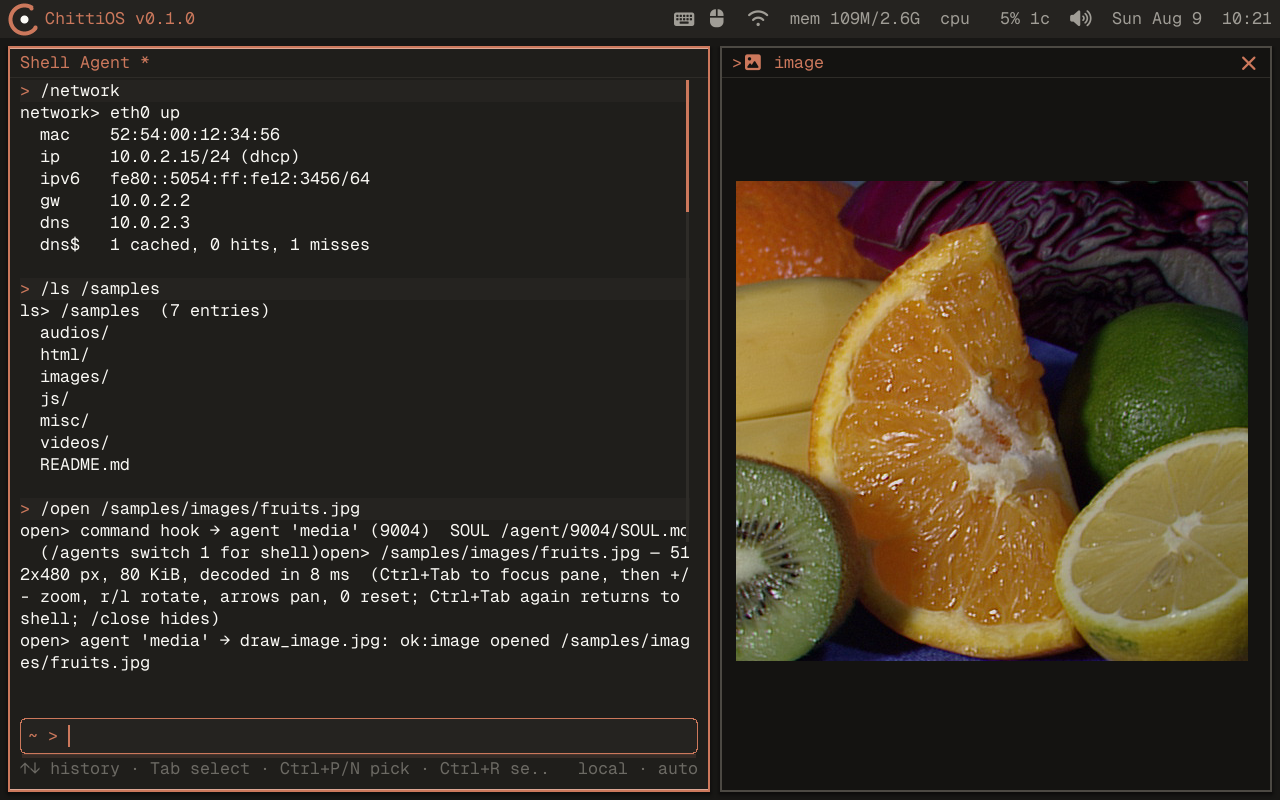
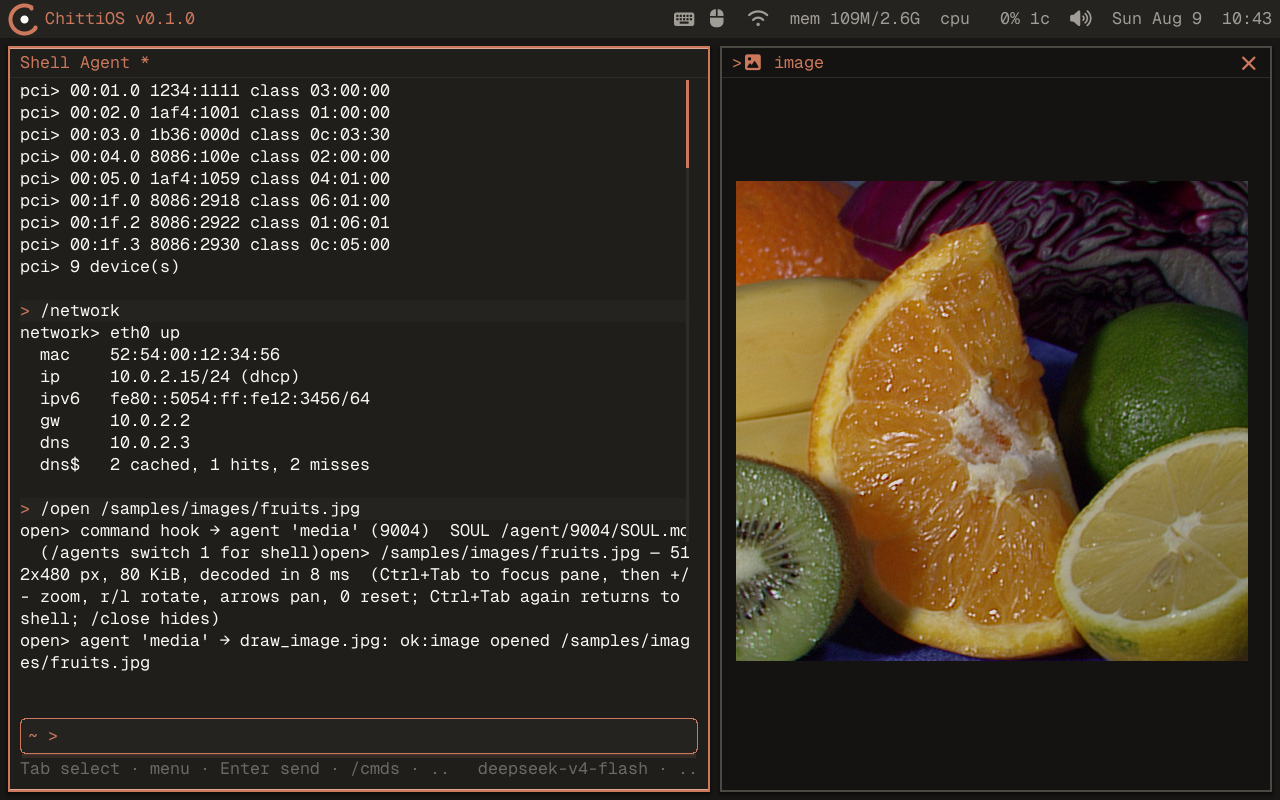
capture: demo the agent loop against a hosted model
Re-shoots the demo now that the x86 fw_cfg seed works, so the frames show what
ChittiOS actually is rather than a tour of `/`-commands: `/model` reporting the
hosted backend, a plain-English question, the model calling a tool it had to be
granted, the tool's real output, a summary — and `/audit` afterwards showing
every primitive that ran.

Reordered for one specific reason, recorded in the script: the command browser
leaves a popup open and the **next `/` is consumed closing it**, so `/model`
went in as the chat message "model" and the model politely asked what was meant.
`/help` is last now, and anything following a popup needs a flush.

Captured against `CHITTI_REMOTE_URL=https://opencode.ai/zen/go` with
`deepseek-v4-flash`. The endpoint is not baked in anywhere — it is two
environment variables at capture time, and without them the script warns and
still shoots, it just has no model to talk to.

diff --git a/tools/capture/capture.py b/tools/capture/capture.py
@@ -93,6 +93,13 @@ class Guest:
         env["CHITTI_QEMU_EXTRA"] = f"-qmp unix:{qmp_path},server,nowait"
         env["CHITTI_DISPLAY"] = "none"
         env.setdefault("CHITTI_SAMPLE_FILES", "1")
+        # A hosted model, seeded through fw_cfg by xtask and activated by the
+        # shell at boot. The demo is about the agent loop, so without this the
+        # interesting frames say "no model" — hence the warning rather than a
+        # silent, duller capture.
+        if not env.get("CHITTI_REMOTE_URL"):
+            print("capture: no CHITTI_REMOTE_URL — the chat frames will have no model",
+                  file=sys.stderr)
         cmd = ["cargo", "xtask", "run", "-arch", arch, "--release", "--no-model"]
         print("capture: " + " ".join(cmd), flush=True)
         self.proc = subprocess.Popen(
@@ -146,22 +153,37 @@ class Guest:
 # The session, as (label, keystrokes, settle seconds). `None` keystrokes means
 # "just wait and shoot" — used for the boot splash.
 #
-# Chosen to show what the OS actually is rather than what looks busiest: the
-# shell it boots to, that it explains itself, that it drives real hardware, and
-# that the agent's authority is gated and audited.
+# Chosen to show what ChittiOS *is* rather than what looks busiest. The middle
+# of the script is the whole point: a plain-English question reaches the model,
+# the model asks for a tool, the capability gate decides, and the audit log
+# shows it happened. A tour of `/`-commands would look like any terminal.
+#
+# Set CHITTI_REMOTE_URL / CHITTI_REMOTE_MODEL to give the guest a hosted model;
+# xtask seeds it through fw_cfg and the shell activates it at boot. Without one
+# the chat frames still capture, they just show the "no model" reply.
 SCRIPT: list[tuple[str, str | None, float]] = [
-    ("01-boot", None, 2.0),
-    ("02-help", "/help\n", 3.0),
-    ("03-about", "\x1b/about\n", 2.5),
-    ("04-disks", "/disks\n", 2.5),
-    ("05-lspci", "/lspci\n", 2.5),
-    ("06-network", "/network\n", 2.5),
-    ("07-samples", "/ls /samples\n", 2.5),
-    ("08-image", "/open /samples/images/fruits.jpg\n", 5.0),
-    ("09-close", "/close\n", 1.5),
-    ("10-audit", "/audit\n", 2.5),
-    ("11-agents", "/agents\n", 3.0),
-    ("12-top", "/top\n", 3.0),
+    ("01-boot", None, 2.5),
+    # The hosted backend, active from the fw_cfg seed.
+    ("02-model", "/model\n", 3.0),
+    # The agentic loop, end to end: a question in English, answered by the model
+    # calling a tool it had to be granted. Long settles because this is a real
+    # round trip to a real endpoint, not a canned reply.
+    ("03-ask", "what storage does this machine have? use a tool to check\n", 40.0),
+    ("04-answer", None, 25.0),
+    # The same work from the security side: every primitive the agent invoked.
+    ("05-audit", "/audit\n", 3.0),
+    # Hardware underneath it.
+    ("06-lspci", "/lspci\n", 2.5),
+    ("07-network", "/network\n", 2.5),
+    # In-kernel JPEG decode into a second pane.
+    ("08-image", "/open /samples/images/fruits.jpg\n", 6.0),
+    ("09-close", "/close\n", 2.0),
+    ("10-agents", "/agents\n", 3.0),
+    # The command browser last: it leaves a popup open, and the following `/`
+    # gets consumed closing it — which sent `/model` as the chat message
+    # "model" the first time this ran. Anything after it needs a flush.
+    ("11-help", "/help\n", 3.5),
+    ("12-close-help", "\x1b", 2.0),
 ]
 
 
